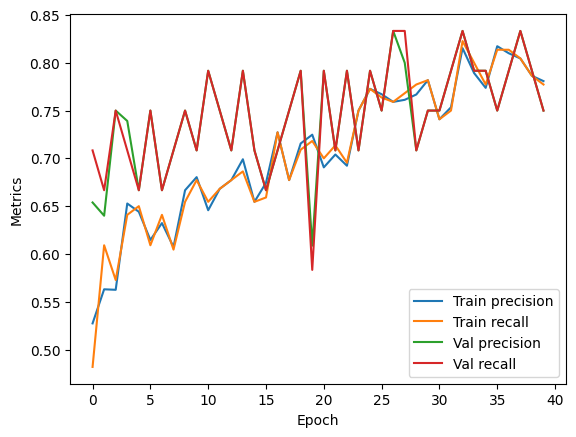
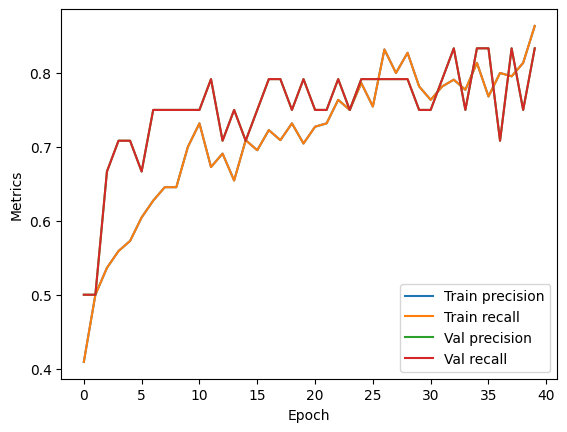
Evaluating model & update it for better accuracy

Changed region(s): [[0.0, 0.0, 0.9894, 0.9931], [0.06, 0.8426, 0.0899, 0.8727]]

diff --git a/src/process_data.py b/src/process_data.py
@@ -2,10 +2,10 @@
 from keras.preprocessing.image import ImageDataGenerator
 
 
-def prepare_train_data(IMG_SHAPE=(180, 180), BATCH_SIZE=32,
-                       VAL_SPLIT=0.2, RESCALE=1/255, ROTATION_RANGE=8,
-                       WIDTH_SHIFT_RANGE=0.15, HEIGHT_SHIFT_RANGE=0.15,
-                       ZOOM_RANGE=0.15, BRIGHTNESS_RANGE=(0.7, 1.3),
+def prepare_train_data(IMG_SHAPE=(180,180), BATCH_SIZE=32,
+                       VAL_SPLIT=0.2, RESCALE=1/255, ROTATION_RANGE=5,
+                       WIDTH_SHIFT_RANGE=0.1, HEIGHT_SHIFT_RANGE=0.1,
+                       ZOOM_RANGE=0.1, BRIGHTNESS_RANGE=(0.8, 1.2),
                        HORIZONTAL_FLIP=True):
 
     train_datagen = ImageDataGenerator(
@@ -38,9 +38,22 @@ def prepare_train_data(IMG_SHAPE=(180, 180), BATCH_SIZE=32,
 
     data_shape = (IMG_SHAPE[0], IMG_SHAPE[1], 3)
 
-
     return train_generator, val_generator, data_shape
 
 
-def prepare_test_data():
-    return None, None
+def prepare_test_data(IMG_SHAPE=(180,180), RESCALE=1/255, BATCH_SIZE=1):
+    test_datagen = ImageDataGenerator(
+        rescale=RESCALE
+    )
+
+    # Generators
+    test_generator = test_datagen.flow_from_directory(
+        '../data/raw/hymenoptera_data/val',
+        target_size=IMG_SHAPE,
+        batch_size=BATCH_SIZE,
+        class_mode='categorical'
+    )
+
+    data_shape = (IMG_SHAPE[0], IMG_SHAPE[1], 3)
+
+    return test_generator, data_shape

diff --git a/src/model.py b/src/model.py
@@ -2,17 +2,20 @@
 from tensorflow import keras
 from tensorflow.keras.metrics import *
 
-def make_model(input_shape):
+
+def make_model(input_shape, lr=1e-3):
     model = keras.Sequential([
         keras.layers.Conv2D(32, kernel_size=(3, 3), activation='relu', input_shape=input_shape),
-        keras.layers.MaxPooling2D(pool_size=(2, 2)),
+        keras.layers.MaxPooling2D(pool_size=(2, 2), padding='same'),
         keras.layers.Conv2D(32, kernel_size=(3, 3), activation='relu'),
-        keras.layers.MaxPooling2D(pool_size=(2, 2)),
+        keras.layers.MaxPooling2D(pool_size=(2, 2), padding='same'),
+        keras.layers.Dropout(0.3),
         keras.layers.Conv2D(64, kernel_size=(3, 3), activation='relu'),
-        keras.layers.MaxPooling2D(pool_size=(2, 2)),
+        keras.layers.MaxPooling2D(pool_size=(2, 2), padding='same'),
         keras.layers.Flatten(),
         keras.layers.Dense(256, activation='relu'),
-        keras.layers.Dense(128, activation='linear'),
+        keras.layers.Dropout(0.3),
+        keras.layers.Dense(128, activation='relu'),
         keras.layers.Dense(2, activation='softmax')
     ])
 
@@ -24,10 +27,9 @@ def make_model(input_shape):
 
     # Compile model
     model.compile(
-        optimizer='adam',
+        optimizer=keras.optimizers.Adam(lr),
         metrics=metrics,
         loss='categorical_crossentropy'
     )
 
     return model
-

diff --git a/src/evaluate.py b/src/evaluate.py
@@ -1,0 +1,38 @@
+import tensorflow as tf
+import os
+from keras.models import load_model
+from process_data import *
+
+data_dir = '../data/raw/hymenoptera_data/val'
+report_path = '../output'
+model_path = '../model/trained_model.h5'
+
+
+def evaluate():
+    print('evaluating...')
+    test_generator, data_shape = prepare_test_data()
+
+    print('Loading model...')
+    model = load_model(model_path)
+    print('Done')
+
+    metrics = [
+        tf.metrics.BinaryAccuracy(),
+        tf.metrics.Precision(),
+        tf.metrics.Recall()
+    ]
+    model.compile(metrics=metrics)
+
+    _, acc, precision, recall = model.evaluate(test_generator)
+
+    result_lines = [f'Test data len: {len(test_generator)}\n'
+                    f'Accuracy: {acc:.3f}, Precision: {precision:.3f}, Recall: {recall:.3f}']
+
+    if not os.path.exists(report_path):
+        os.makedirs(report_path)
+    with open(f'{report_path}/report.txt', 'w', encoding='utf-8') as f:
+        f.writelines(result_lines)
+
+
+if __name__  == '__main__':
+    evaluate()

diff --git a/src/train.py b/src/train.py
@@ -18,6 +18,8 @@ def train(batch_size, epochs, val_split, verbose, history):
 
     model = make_model(data_shape)
 
+    print(model.summary())
+
     # Fitting
     train_history = model.fit(
         train_generator,
